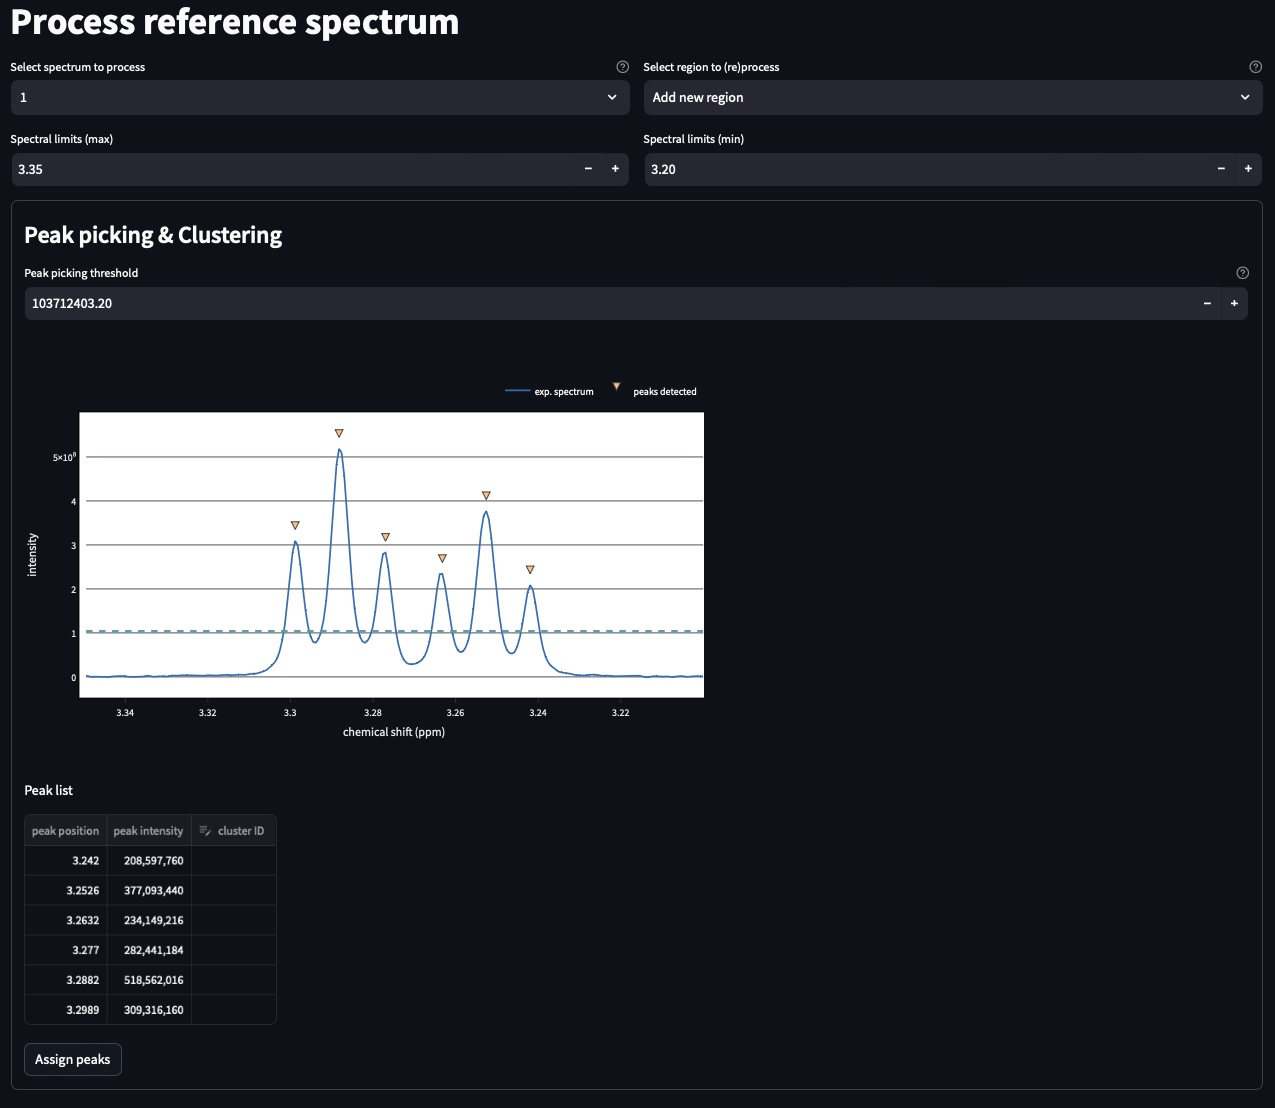
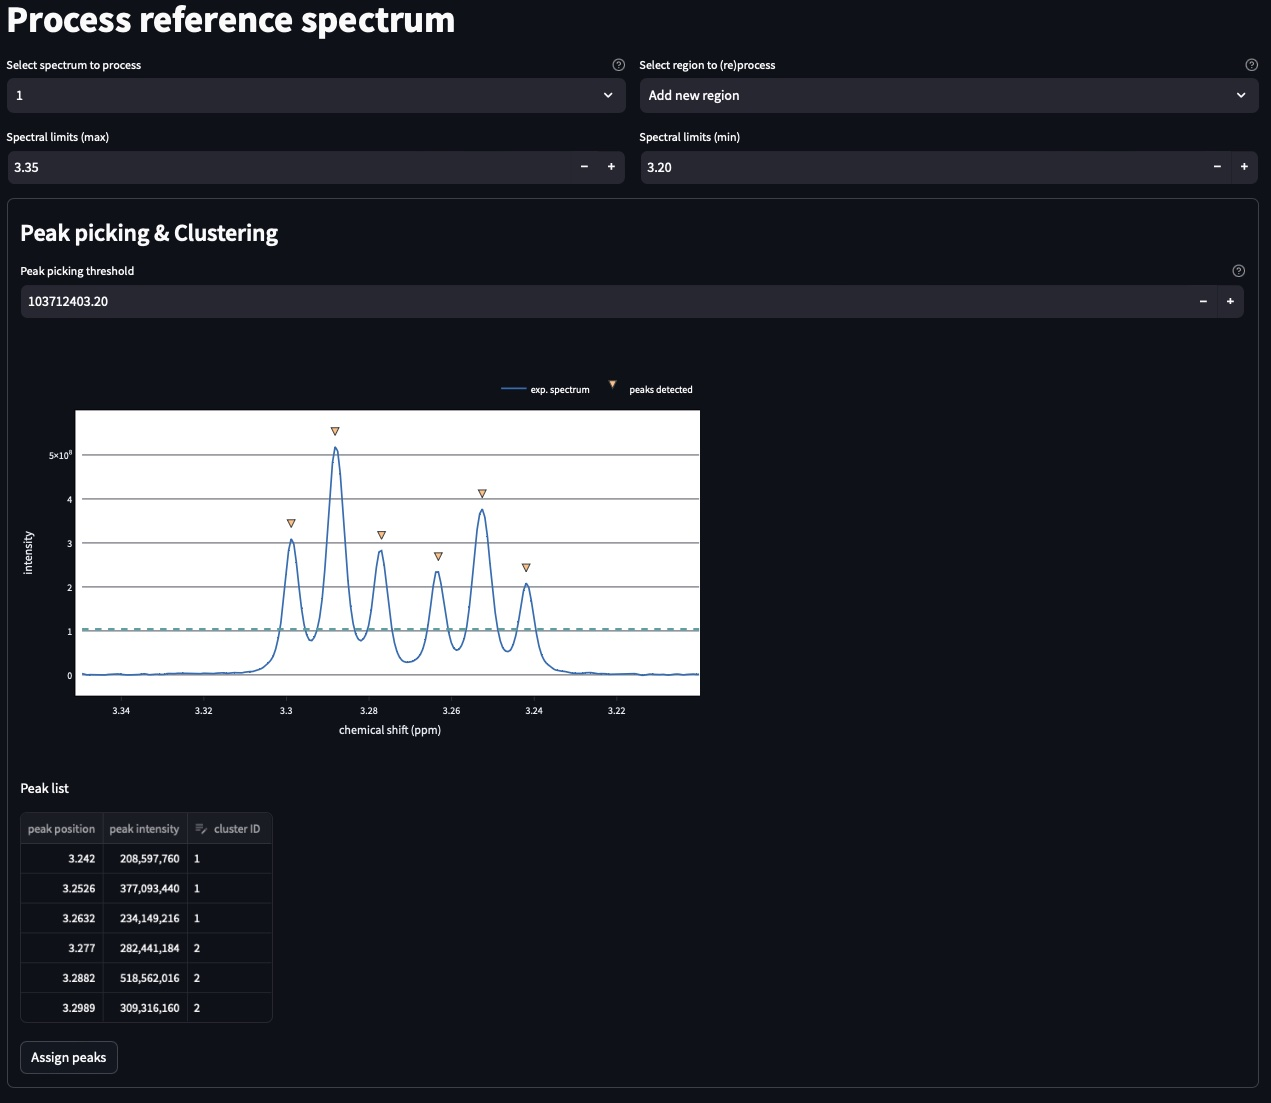
update tutorial

diff --git a/doc/tutorials.rst b/doc/tutorials.rst
@@ -96,9 +96,20 @@ Once the data are correctly loaded the second page of the interface becomes avai
 .. image:: _static/Set_ref_processing.jpg
   :scale: 60%
 
-The top part of this page set the t
+The top part of this page automatically performs the peak picking on the reference spectrum within the region displayed in the graph:
+* **Select reference spectrum**: Select one the spectrum of the list. Tis specturm (called reference spectrum) will be used for automatic peak detection and initial fitting. 
+* **Select region to (re)process**: Multiple independent regions can be processed. Here, it will give you the choice of all regions added to the process.  
+* **Spectral limits (max)**: Maximum of the spectral window (default is the maximum of the ppm scale)
+* **Spectral limits (min)**: Minimum of the spectral window (default is the min of the ppm scale)
 
+.. note:: **reference spectrum**:  
+        The signal that you to analyze needs to be seen in the reference spectrum.
+.. note:: **spectral limits**:  
+        The difference betwwen the max and min should be at least 0.25 ppm.
 
+You can adjust the **Peak picking threshold** to detect the desired peaks on the displayed spectrum. 
+
+The **Peak picking threshold**
 
 Configuration file
 ================================================================================
